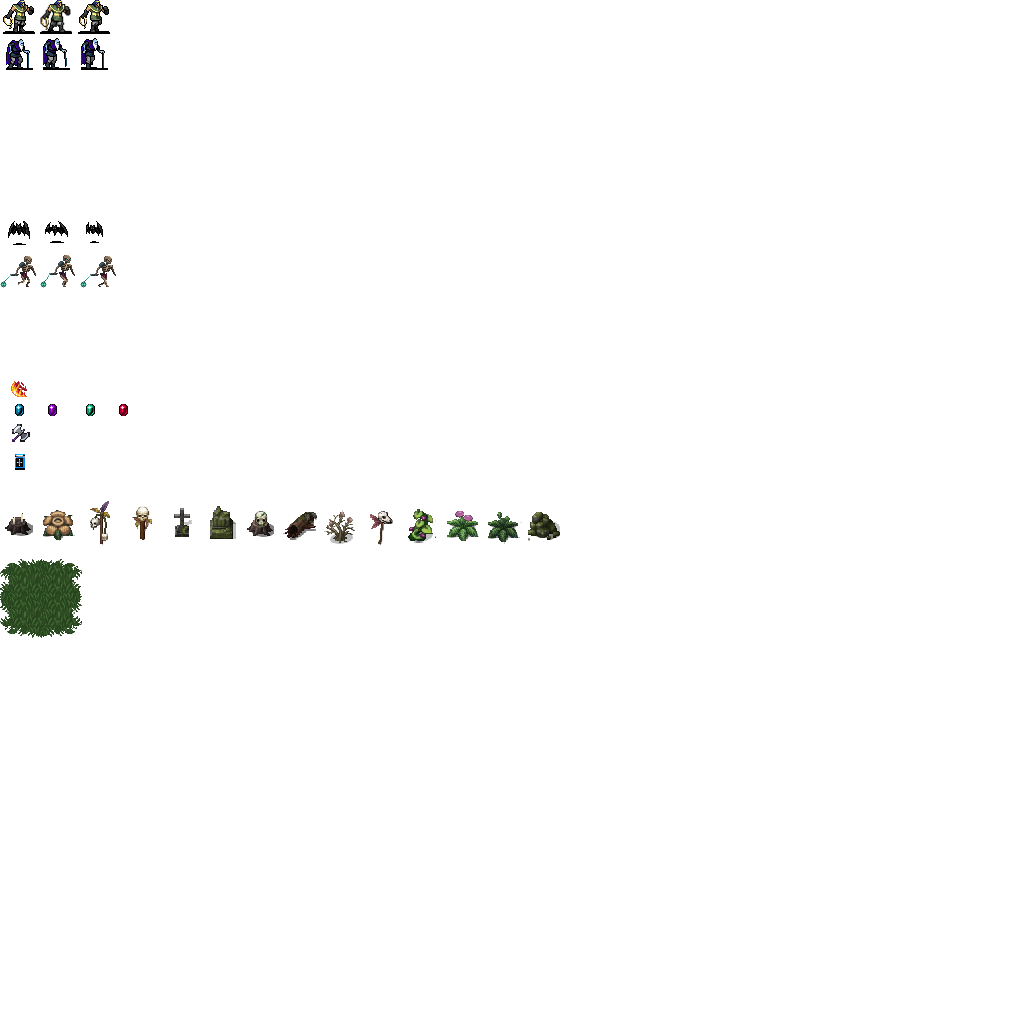
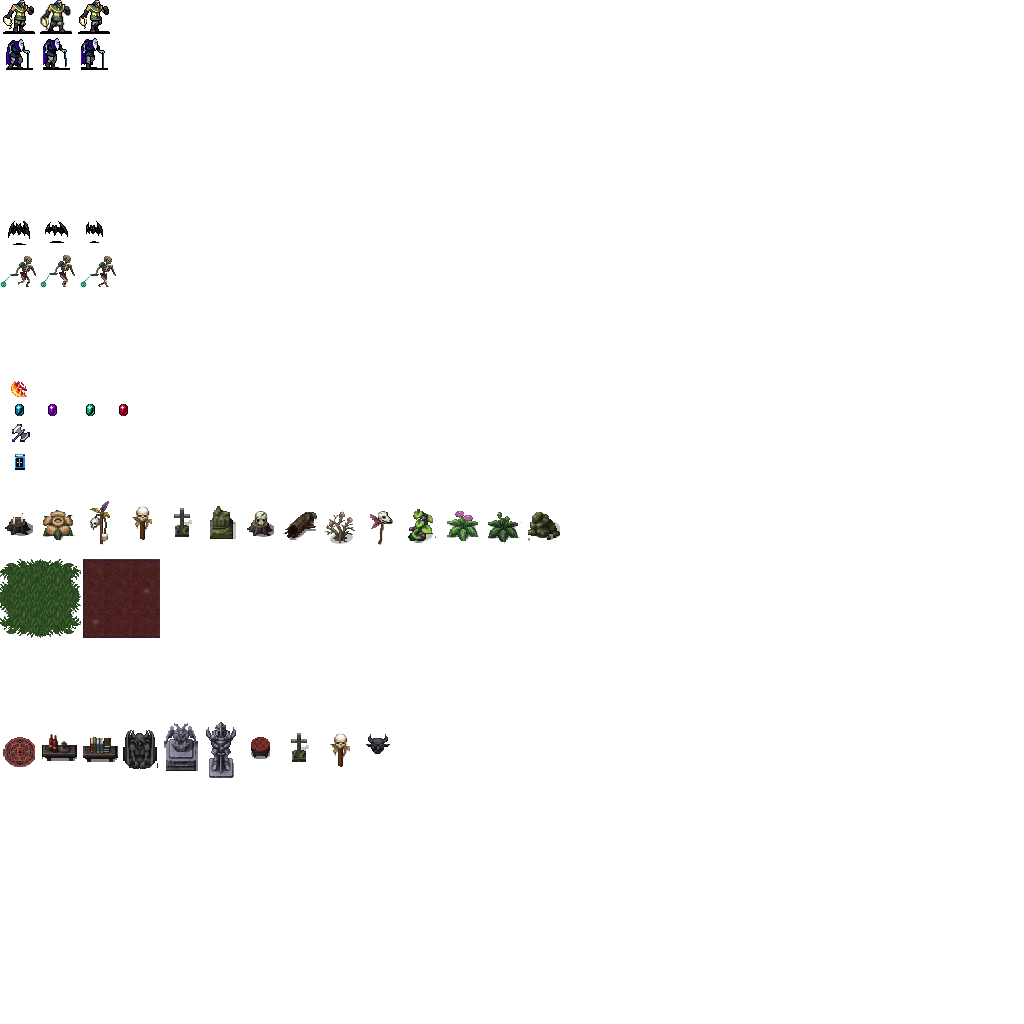
added background selection and beckground buying to the game

Changed region(s): [[0.0, 0.6875, 0.375, 0.7812], [0.0, 0.5312, 0.1562, 0.625]]

diff --git a/src/UI/StartScreen.ts b/src/UI/StartScreen.ts
@@ -1,6 +1,7 @@
 import { GameInitialize } from "../GameInitialize";
 import { Global } from "../Global";
 import { players } from "../Player/PlayerInfo";
+import { backgrounds } from "../Background/BackgroundInfo";
 
 export function startGame() {
   const startGamebtn = document.querySelector(
@@ -9,6 +10,7 @@ export function startGame() {
   startGamebtn.addEventListener("click", () => {
     const startScreen = document.querySelector(".start-menu") as HTMLElement;
     startScreen.classList.add("hidden");
+    startScreen.classList.remove("screen");
     // Start the game loop
     playerSelection();
   });
@@ -74,11 +76,10 @@ function playerSelection() {
   nextButton.addEventListener("click", () => {
     Global.PLAYER_INDEX = players.indexOf(selectedCharacter);
 
-    const screen = document.querySelector(
-      ".start-screen-wrapper"
-    ) as HTMLElement;
-    screen.classList.add("hidden");
-    GameInitialize.init();
+    playerSelectionScreen.classList.add("hidden");
+    playerSelectionScreen.classList.remove("screen");
+    playerSelectionScreen.style.display = "none";
+    backgroundSelection();
   });
   buyButton.addEventListener("click", () => {
     if (Global.SCORE >= selectedCharacter.cost) {
@@ -89,6 +90,95 @@ function playerSelection() {
       localStorage.setItem("players", JSON.stringify(players));
       buyButton.classList.add("hidden");
       nextButton.classList.remove("hidden");
+
+      displayScore();
+    } else {
+      playerAlert.classList.remove("hidden");
+      setTimeout(() => {
+        playerAlert.classList.add("hidden");
+      }, 2000);
+    }
+  });
+}
+
+function backgroundSelection() {
+  let selectedBackground: any = null;
+
+  const backgroundSelectionScreen = document.querySelector(
+    ".background-selection"
+  ) as HTMLElement;
+  const backgroundSelectionItems = document.querySelector(
+    ".background-selection__items"
+  ) as HTMLElement;
+  const playerAlert = document.querySelector(
+    ".background-alert"
+  ) as HTMLElement;
+  const startButton = document.querySelector(
+    ".btn--start-game"
+  ) as HTMLButtonElement;
+  const buyButton = document.querySelector(
+    ".btn--buyBackground"
+  ) as HTMLButtonElement;
+  const scoreDisplay = document.querySelector(".score") as HTMLElement;
+  backgroundSelectionScreen.classList.remove("hidden");
+  backgroundSelectionScreen.classList.add("screen");
+
+  function displayScore() {
+    scoreDisplay.innerText = `Score: ${Global.SCORE}`;
+  }
+
+  displayScore();
+
+  backgrounds.forEach((background: any) => {
+    const img = document.createElement("img");
+    img.src = background.imgSrc;
+    img.alt = background.name;
+    img.addEventListener("mouseover", () => {
+      if (background != selectedBackground)
+        img.style.border = "2px solid yellow";
+    });
+    img.addEventListener("mouseout", () => {
+      if (background != selectedBackground) img.style.border = "none";
+    });
+    img.addEventListener("click", () => {
+      selectedBackground = background;
+      if (selectedBackground.purchased) {
+        startButton.classList.remove("hidden");
+        buyButton.classList.add("hidden");
+      } else {
+        startButton.classList.add("hidden");
+        buyButton.classList.remove("hidden");
+        buyButton.innerText = `Buy for ${background.cost} coins`;
+      }
+      const backgroundImgs = document.querySelectorAll(
+        ".background-selection__items img"
+      ) as NodeListOf<HTMLImageElement>;
+      backgroundImgs.forEach((el) => {
+        el.style.border = "none";
+      });
+      img.style.border = "2px solid green";
+    });
+    backgroundSelectionItems.appendChild(img);
+  });
+
+  startButton.addEventListener("click", () => {
+    Global.BACKGROUND_INDEX = backgrounds.indexOf(selectedBackground);
+
+    const screen = document.querySelector(
+      ".start-screen-wrapper"
+    ) as HTMLElement;
+    screen.classList.add("hidden");
+    GameInitialize.init();
+  });
+  buyButton.addEventListener("click", () => {
+    if (Global.SCORE >= selectedBackground.cost) {
+      Global.SCORE -= selectedBackground.cost;
+      localStorage.setItem("score", Global.SCORE.toString());
+      selectedBackground.purchased = true;
+      backgrounds[backgrounds.indexOf(selectedBackground)].purchased = true;
+      localStorage.setItem("backgrounds", JSON.stringify(backgrounds));
+      buyButton.classList.add("hidden");
+      startButton.classList.remove("hidden");
 
       displayScore();
     } else {

diff --git a/src/Game.ts b/src/Game.ts
@@ -9,7 +9,6 @@ import { Currency } from "./Elements/Currency";
 import { soundManager } from "./Sound/SoundManager";
 import { Obstacle } from "./Background/Obstacles";
 import { drawLoadingAnimation } from "./Utils/Loading";
-import { placeObstaclesRandomly } from "./Background/PlaceObstacles";
 import { spawnEnemy, getRandomSpawnInterval } from "./Enemy/spawnEnemy";
 import { addVolumeListener, drawVolumeSliders } from "./Sound/volumeSlider";
 import { UpgradeMenu } from "./Upgrade/upgradeMenu";
@@ -19,11 +18,14 @@ import { deathCounter } from "./Elements/deathCount";
 
 Global.init();
 
-export function Game(player: Player, enemies: Enemy[]) {
+export function Game(
+  player: Player,
+  enemies: Enemy[],
+  sprite: Sprite,
+  backgroundTile: BackgroundTile,
+  obstacles: Obstacle[]
+) {
   const currencies: Currency[] = [];
-
-  const sprite = new Sprite("characters1.png");
-  const backgroundTile = new BackgroundTile(sprite.spriteSheet);
 
   const upgradeMenu = new UpgradeMenu(gameLoop, player);
 
@@ -41,9 +43,6 @@ export function Game(player: Player, enemies: Enemy[]) {
   // Enemy spawn variables
   let elapsedSpawnTime = 0;
   let spawnInterval = 5000;
-
-  // Load obstacles
-  const obstacles: Obstacle[] = placeObstaclesRandomly(sprite, 200, 40, 50);
 
   soundManager.playMusic();
 

diff --git a/src/style.css b/src/style.css
@@ -79,7 +79,8 @@ h1 {
   transition: all 0.3s ease;
 }
 
-.btn--buy {
+.btn--buy,
+.btn--buyBackground {
   background-color: #5e1b1b; /* Retro green color */
   border: 2px solid #e63d00; /* Bright green border */
 }
@@ -98,7 +99,8 @@ h1 {
   transform: scale(0.95);
 }
 
-.player-alert {
+.player-alert,
+.background-alert {
   color: red;
   font-size: 1.5rem;
   font-family: "Press Start 2P", cursive; /* Retro font */
@@ -106,7 +108,8 @@ h1 {
   text-shadow: 2px 2px #000;
 }
 
-.player-selection {
+.player-selection,
+.background-selection {
   display: flex;
   flex-direction: column;
   align-items: center;
@@ -114,14 +117,16 @@ h1 {
   background-image: linear-gradient(to right, #6e0202, #150400);
 }
 
-.player-selection__items {
+.player-selection__items,
+.background-selection__items {
   display: flex;
   justify-content: center;
   align-items: center;
   flex-wrap: wrap;
 }
 
-.player-selection__items img {
+.player-selection__items img,
+.background-selection__items img {
   width: 80px;
   height: 80px;
   margin: 10px;
@@ -129,7 +134,8 @@ h1 {
   transition: transform 0.3s, border 0.3s;
 }
 
-.player-selection__items img:hover {
+.player-selection__items img:hover,
+.background-selection__items img:hover {
   transform: scale(1.1);
   border: 2px solid yellow;
 }

diff --git a/src/Background/Background.ts b/src/Background/Background.ts
@@ -8,8 +8,9 @@ export class BackgroundTile {
   private tileWidth: number;
   private tileHeight: number;
   private tileImage: HTMLImageElement;
+  private sourceX: number;
 
-  constructor(tileImage: HTMLImageElement) {
+  constructor(tileImage: HTMLImageElement, sourceX: number) {
     this.tileWidth = 85;
     this.tileHeight = 80;
     this.numTilesX = Math.ceil(
@@ -28,20 +29,21 @@ export class BackgroundTile {
     ) as CanvasRenderingContext2D;
 
     this.tileImage = tileImage;
+    this.sourceX = sourceX;
 
     // Draw the entire tile map on the off-screen canvas
     this.tileImage.onload = () => {
       Global.SpriteLoaded = true;
-      this.drawTileMap();
+      this.drawTileMap(this.sourceX);
     };
   }
 
-  private drawTileMap() {
+  private drawTileMap(sourceX: number) {
     for (let x = 0; x < this.numTilesX; x++) {
       for (let y = 0; y < this.numTilesY; y++) {
         this.offScreenCtx.drawImage(
           this.tileImage,
-          0,
+          sourceX,
           560, // Source coordinates
           this.tileImage.width,
           this.tileImage.height, // Source dimensions

diff --git a/index.html b/index.html
@@ -26,10 +26,13 @@
         <button class="btn btn--buy hidden">Buy</button>
       </div>
 
-      <!-- <div class="background-selection screen hidden">
-      <div class="background-selection__items"></div>
-      <button class="btn btn--start hidden">Start Game</button>
-    </div> -->
+      <div class="background-selection hidden">
+        <h1>SELECT YOUR BACKGROUND</h1>
+        <div class="background-selection__items"></div>
+        <p class="background-alert hidden">You Don't have enough coins!</p>
+        <button class="btn btn--start-game hidden">Start Game</button>
+        <button class="btn btn--buyBackground hidden">Buy</button>
+      </div>
     </div>
     <canvas id="canvas"></canvas>
     <script type="module" src="/src/Game.ts"></script>

diff --git a/src/GameInitialize.ts b/src/GameInitialize.ts
@@ -1,11 +1,17 @@
 import { PlayerCreator } from "./Player/PlayerCreator";
 import { Enemy } from "./Enemy/Enemy";
 import { Game } from "./Game";
+import { BackgroundCreator } from "./Background/BackgroundCreator";
+import { Sprite } from "./Sprites/Sprite";
+import { ObstaclesCreator } from "./Background/ObstavlesCreator";
 
 export class GameInitialize {
   public static init(): void {
     const enemies: Enemy[] = [];
+    const sprite = new Sprite("characters1.png");
     const player = PlayerCreator.createPlayer(enemies);
-    Game(player, enemies);
+    const background = BackgroundCreator.createBackground(sprite);
+    const obstacles = ObstaclesCreator.createObstacles(sprite);
+    Game(player, enemies, sprite, background, obstacles);
   }
 }

diff --git a/src/Background/ObstavlesCreator.ts b/src/Background/ObstavlesCreator.ts
@@ -1,0 +1,17 @@
+import { Global } from "../Global";
+import { Sprite } from "../Sprites/Sprite";
+import { Obstacle } from "./Obstacles";
+import { placeObstaclesRandomly } from "./PlaceObstacles";
+
+export class ObstaclesCreator {
+  public static createObstacles(sprite: Sprite): Obstacle[] {
+    switch (Global.BACKGROUND_INDEX) {
+      case 0:
+        return placeObstaclesRandomly(sprite, 200, 40, 50, 14, 500);
+      case 1:
+        return placeObstaclesRandomly(sprite, 200, 40, 50, 10, 720);
+      default:
+        return placeObstaclesRandomly(sprite, 200, 40, 60, 14, 500);
+    }
+  }
+}

diff --git a/src/Background/PlaceObstacles.ts b/src/Background/PlaceObstacles.ts
@@ -18,7 +18,9 @@ export function placeObstaclesRandomly(
   sprite: Sprite,
   numObstacles: number,
   obstacleWidth: number,
-  obstacleHeight: number
+  obstacleHeight: number,
+  numOfSprite: number,
+  SourceY: number
 ) {
   const obstacles: Obstacle[] = [];
 
@@ -43,8 +45,8 @@ export function placeObstaclesRandomly(
         obstacleWidth,
         obstacleHeight,
         sprite,
-        Math.floor(Math.random() * 14) * 40,
-        500
+        Math.floor(Math.random() * numOfSprite) * 40,
+        SourceY
       )
     ); // Assuming obstacles are from the same sprite position
   }

diff --git a/src/Background/BackgroundCreator.ts b/src/Background/BackgroundCreator.ts
@@ -1,0 +1,16 @@
+import { Global } from "../Global";
+import { Sprite } from "../Sprites/Sprite";
+import { BackgroundTile } from "./Background";
+
+export class BackgroundCreator {
+  public static createBackground(sprite: Sprite): BackgroundTile {
+    switch (Global.BACKGROUND_INDEX) {
+      case 0:
+        return new BackgroundTile(sprite.spriteSheet, 0);
+      case 1:
+        return new BackgroundTile(sprite.spriteSheet, 83);
+      default:
+        return new BackgroundTile(sprite.spriteSheet, 0);
+    }
+  }
+}

diff --git a/src/Background/BackgroundInfo.ts b/src/Background/BackgroundInfo.ts
@@ -1,0 +1,17 @@
+const backgroundInit = [
+  {
+    name: "forest",
+    imgSrc: "Backgrounds/forest.png",
+    purchased: true,
+  },
+  {
+    name: "Hell",
+    imgSrc: "Backgrounds/hell.png",
+    cost: 10,
+    purchased: false,
+  },
+];
+
+export const backgrounds = JSON.parse(
+  localStorage.getItem("backgrounds") ?? JSON.stringify(backgroundInit)
+);

diff --git a/src/Global.ts b/src/Global.ts
@@ -19,6 +19,7 @@ export class Global {
   public static SpriteLoaded: boolean = false;
 
   public static PLAYER_INDEX: number = 0;
+  public static BACKGROUND_INDEX: number = 0;
   public static SCORE: number;
 
   public static init(): void {
